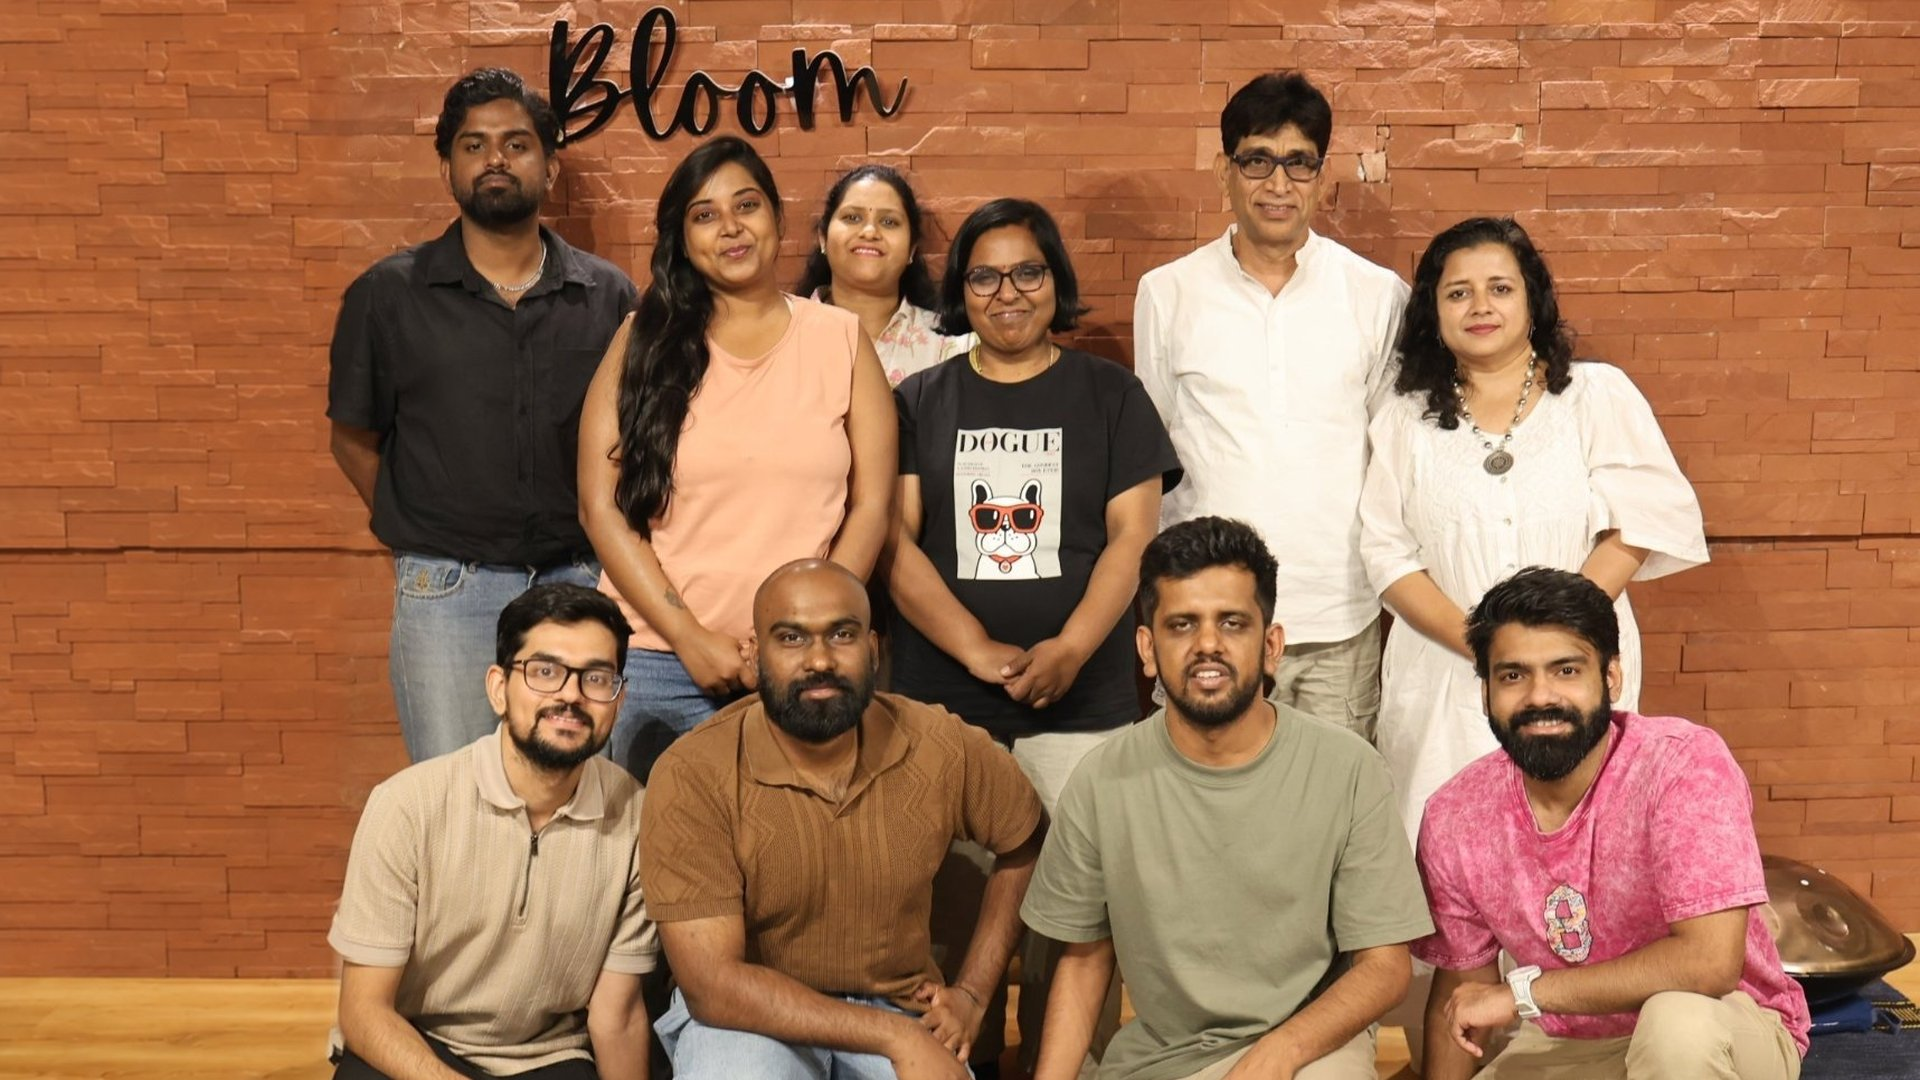
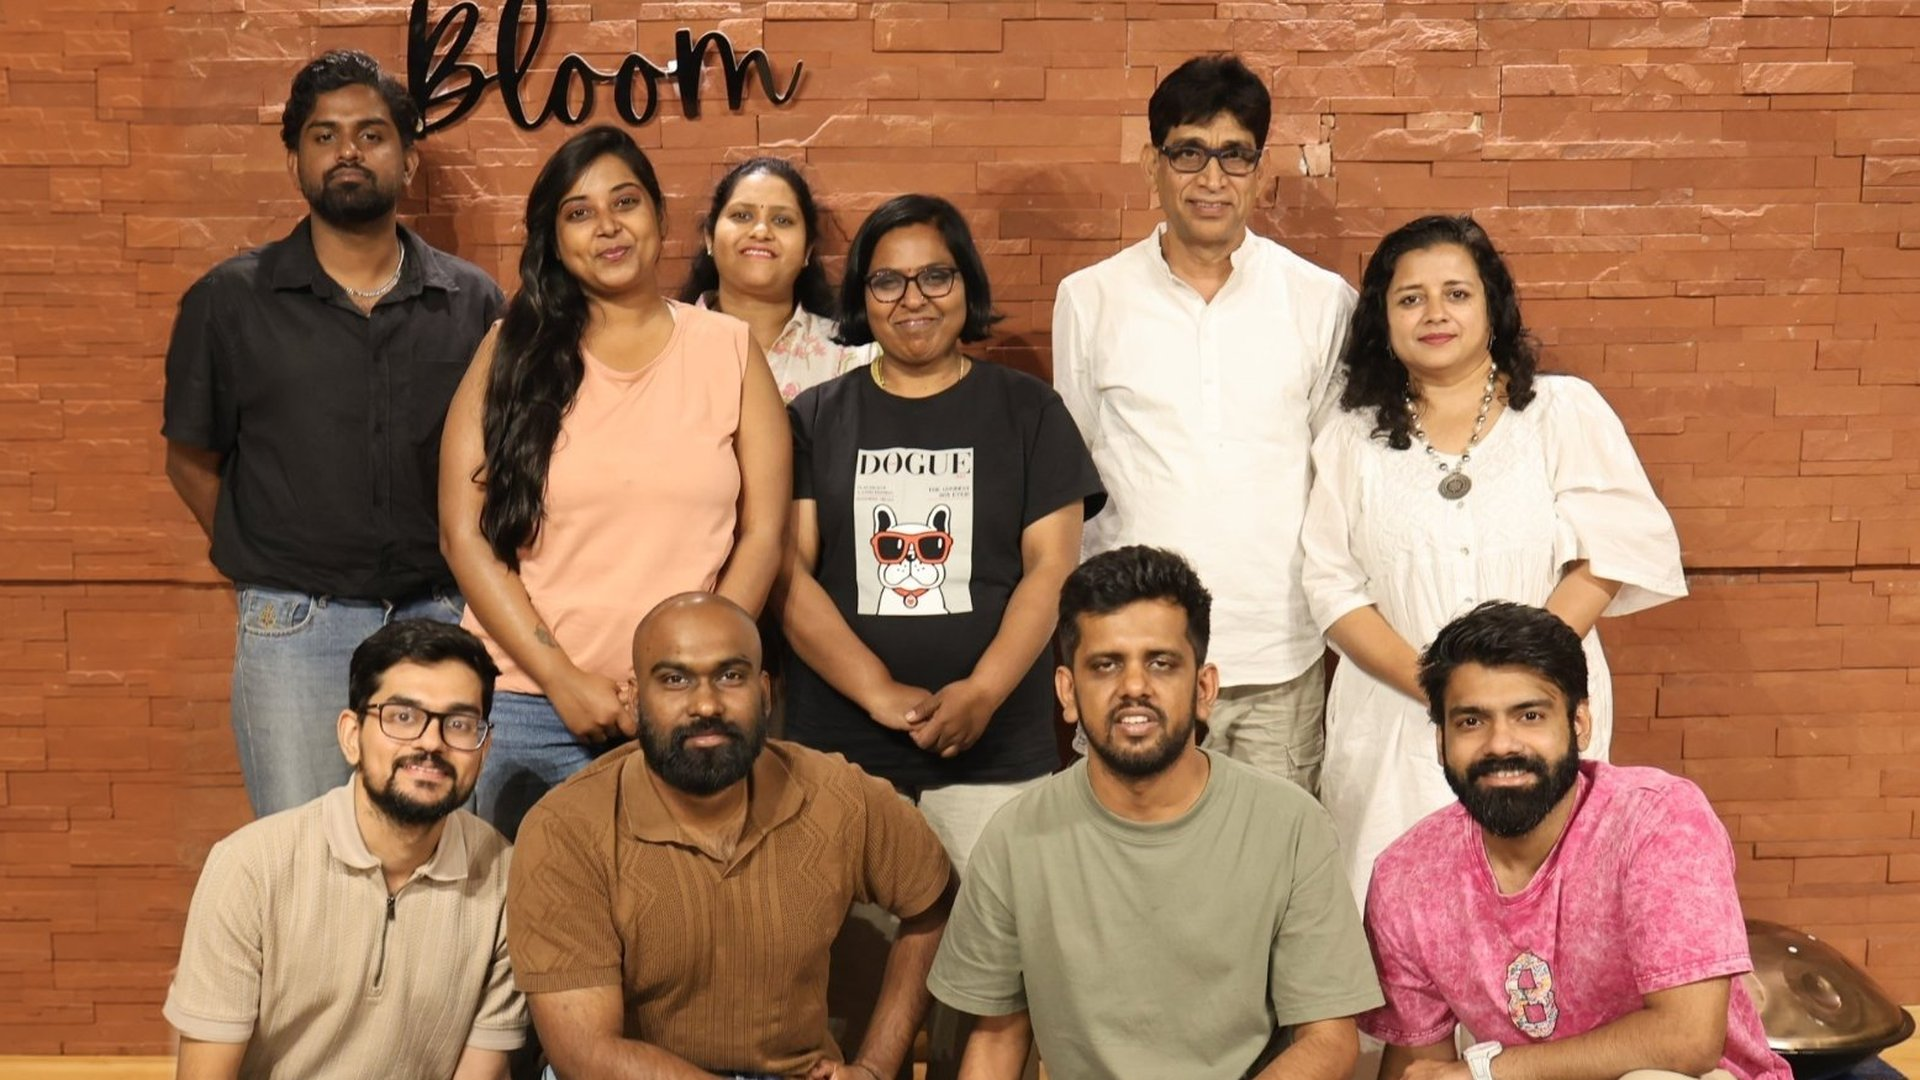
Add files via upload

diff --git a/index.html b/index.html
@@ -569,7 +569,7 @@
 
 <!-- PHOTO BANNER -->
 <div class="photo-banner">
-  <img src="images/Handpan_Workshop_10-10-26.jpg" alt="Group photo from the Breath, Pause, Resonance workshop, October 2026"/>
+  <img src="images/arpit-community.jpg" alt="Arpit performing live"/>
   <div class="photo-banner-overlay">
     <div class="photo-banner-text">
       <p>Community</p>
@@ -720,7 +720,7 @@
     </div>
   </div>
   <div class="footer-bottom">
-    <p>© 2026 Arpit Pandey <span class="footer-version">(v37)</span></p>
+    <p>© 2026 Arpit Pandey <span class="footer-version">(v38)</span></p>
   </div>
 </footer>
 
